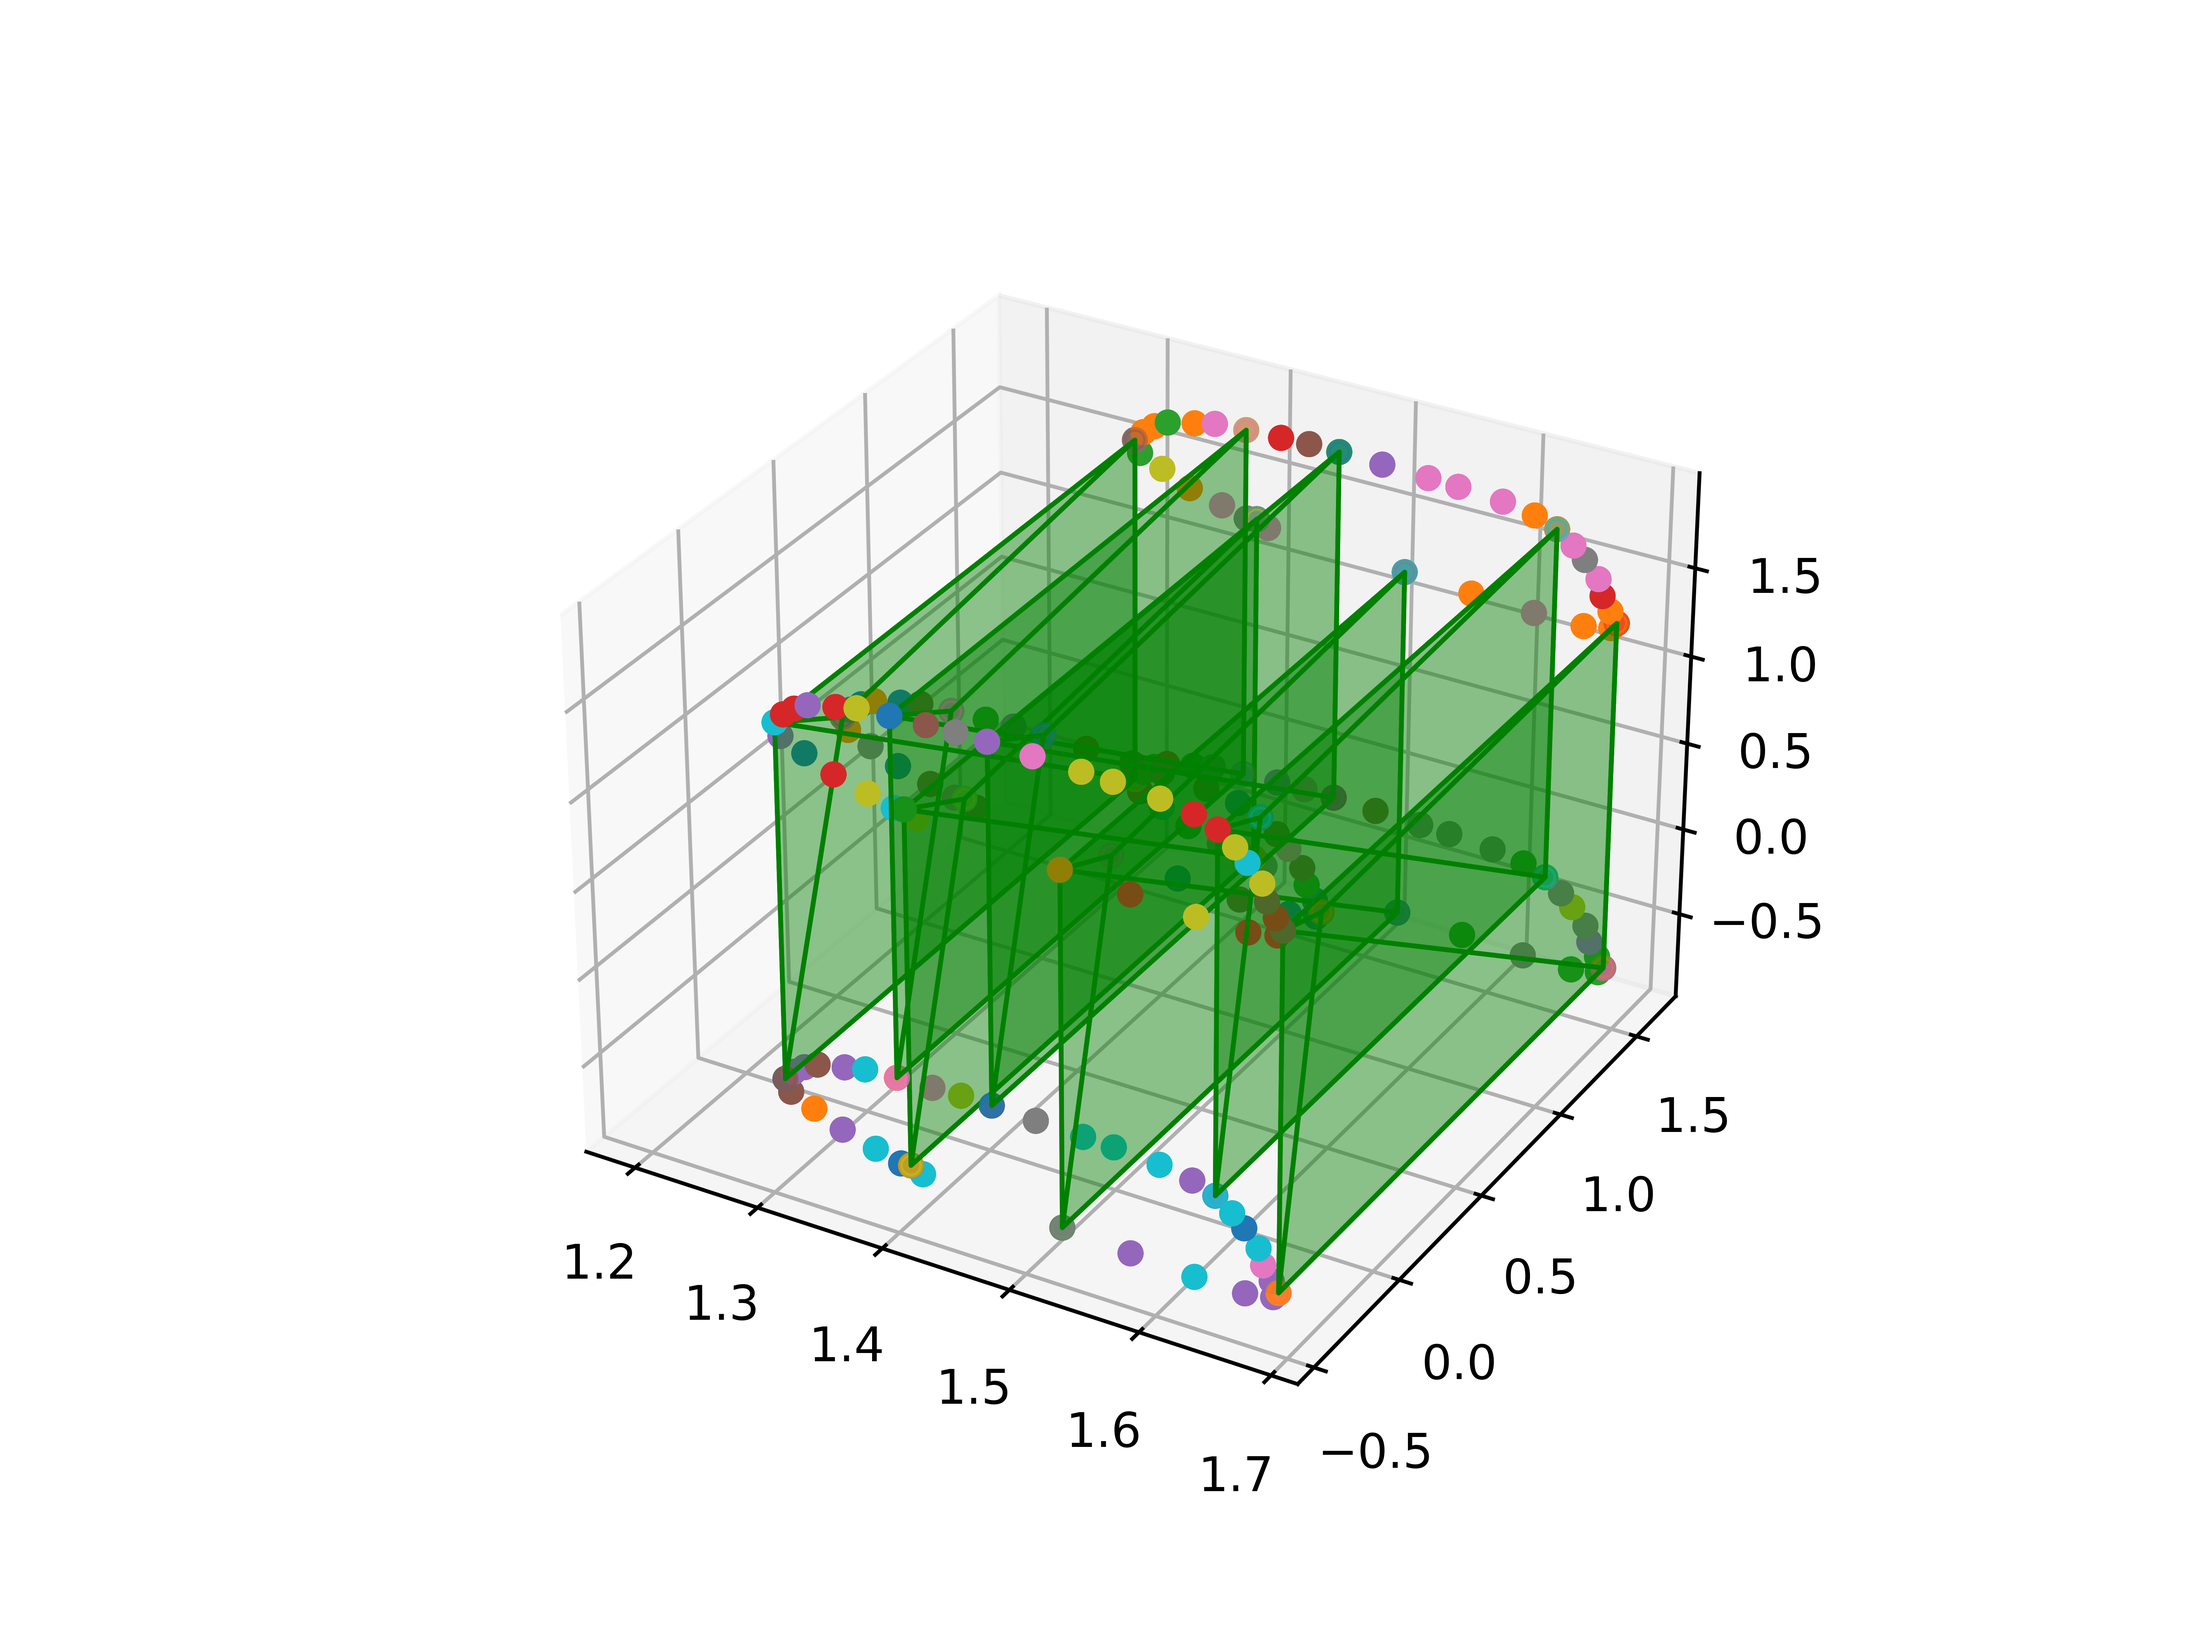
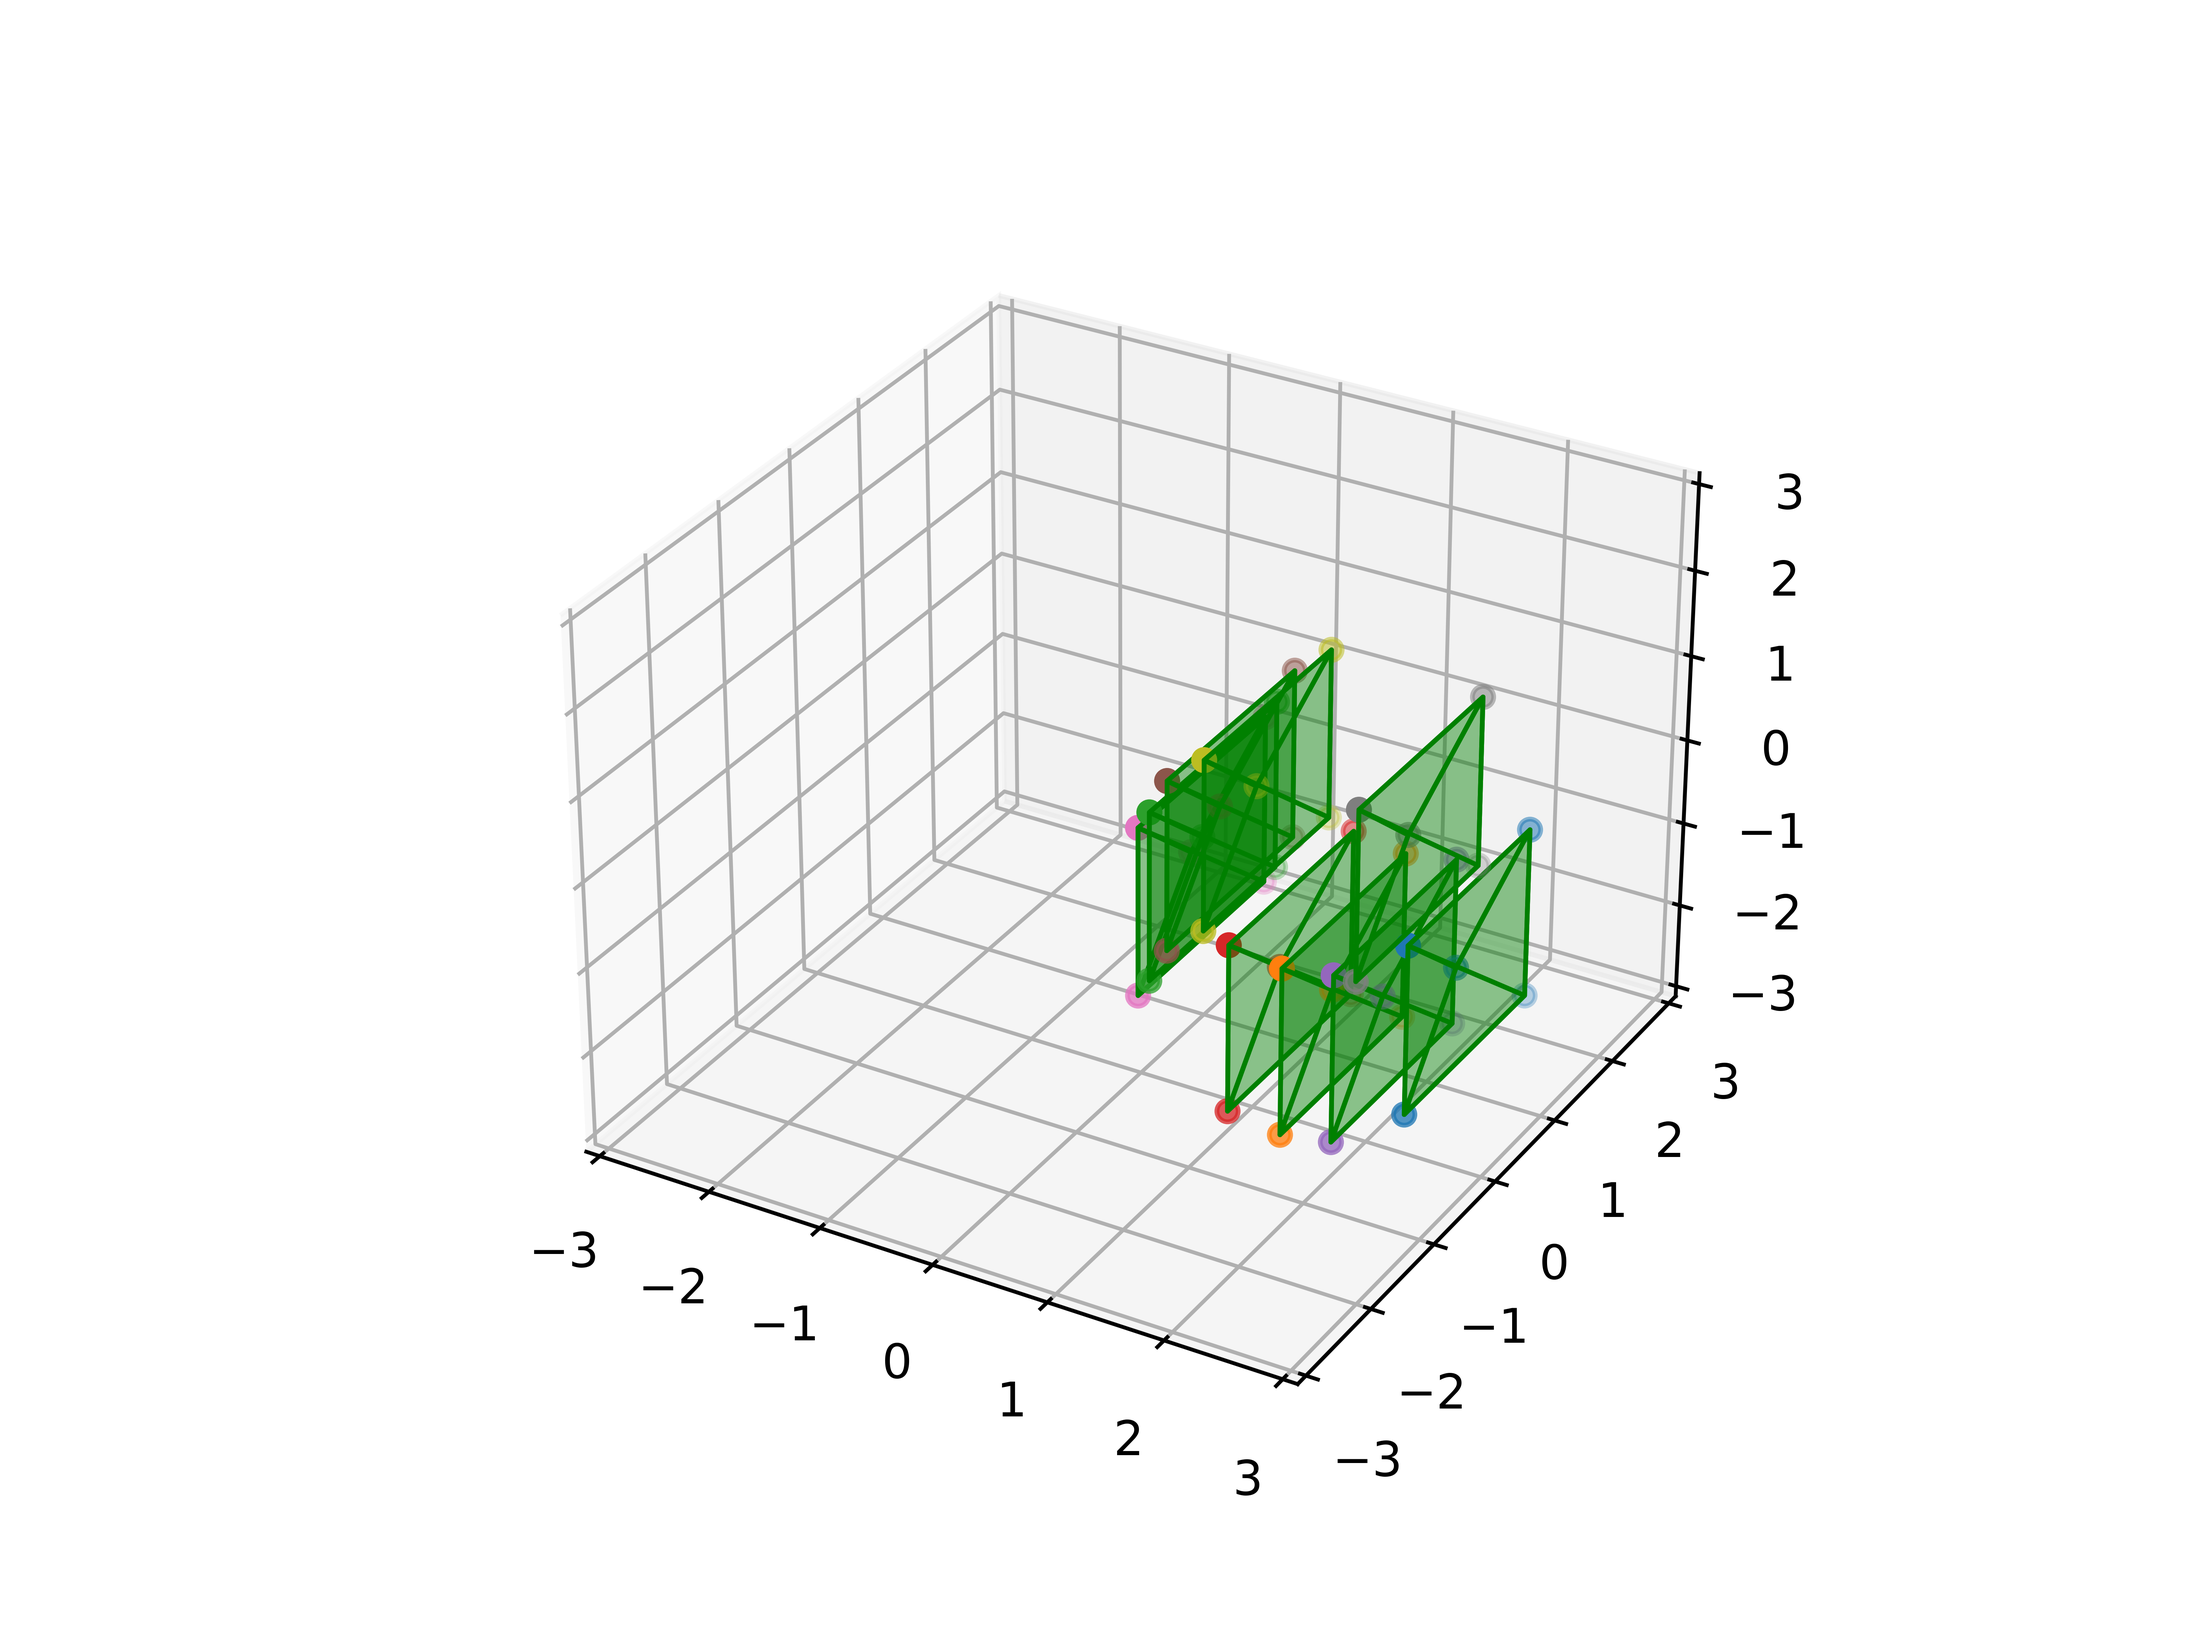
changes

diff --git a/anchor/backend/visualizer/pose.py b/anchor/backend/visualizer/pose.py
@@ -48,11 +48,12 @@ def plot_tranform(transform: np.matrix, color: str, axes: plt.Axes):
 
     if random.random() < 0.2:
         plot_pyramid([point1[0:3, 3], point5[0:3, 3], point3[0:3, 3], point2[0:3, 3], point4[0:3, 3]], color, axes)
-    plot_pyramid([point1[0:3, 3], point1[0:3, 3], point1[0:3, 3], point1[0:3, 3], point1[0:3, 3]], color, axes)
-    plot_pyramid([point2[0:3, 3], point2[0:3, 3], point2[0:3, 3], point2[0:3, 3], point2[0:3, 3]], color, axes)
-    plot_pyramid([point3[0:3, 3], point3[0:3, 3], point3[0:3, 3], point3[0:3, 3], point3[0:3, 3]], color, axes)
-    plot_pyramid([point4[0:3, 3], point4[0:3, 3], point4[0:3, 3], point4[0:3, 3], point4[0:3, 3]], color, axes)
-    plot_pyramid([point5[0:3, 3], point5[0:3, 3], point5[0:3, 3], point5[0:3, 3], point5[0:3, 3]], color, axes)
+    #plot_pyramid([point1[0:3, 3], point1[0:3, 3], point1[0:3, 3], point1[0:3, 3], point1[0:3, 3]], color, axes)
+    #plot_pyramid([point2[0:3, 3], point2[0:3, 3], point2[0:3, 3], point2[0:3, 3], point2[0:3, 3]], color, axes)
+    #plot_pyramid([point3[0:3, 3], point3[0:3, 3], point3[0:3, 3], point3[0:3, 3], point3[0:3, 3]], color, axes)
+    #plot_pyramid([point4[0:3, 3], point4[0:3, 3], point4[0:3, 3], point4[0:3, 3], point4[0:3, 3]], color, axes)
+    #plot_pyramid([point5[0:3, 3], point5[0:3, 3], point5[0:3, 3], point5[0:3, 3], point5[0:3, 3]], color, axes)
+
 
 """
     For debug purposes, it is sometimes useful to visualize poses to be able to determine 
@@ -60,6 +61,10 @@ def plot_tranform(transform: np.matrix, color: str, axes: plt.Axes):
 """
 def visualize_pose_list(): 
     plt3d = plt.figure().add_subplot(projection='3d')
+    plt3d.set_xlim(-3, 3)
+    plt3d.set_ylim(-3, 3)
+    plt3d.set_zlim(-3, 3)
+
     num =0
 
     for transform_path in os.listdir("/tmp/repro"): 

diff --git a/anchor/backend/server/loaders.py b/anchor/backend/server/loaders.py
@@ -110,8 +110,9 @@ class ModelLoader:
                 )
             
             # save debug poses for visualization
-            timestamp = time.time()
-            np.savetxt(f"/tmp/repro/{timestamp}.pose-anchor.txt", out_pose.numpy(), fmt="%f")
+            if inlier_count > 600:
+                timestamp = time.time()
+                np.savetxt(f"/tmp/repro/{timestamp}.pose-anchor.txt", out_pose.numpy(), fmt="%f")
 
             print(inlier_count)
             return out_pose, inlier_count
